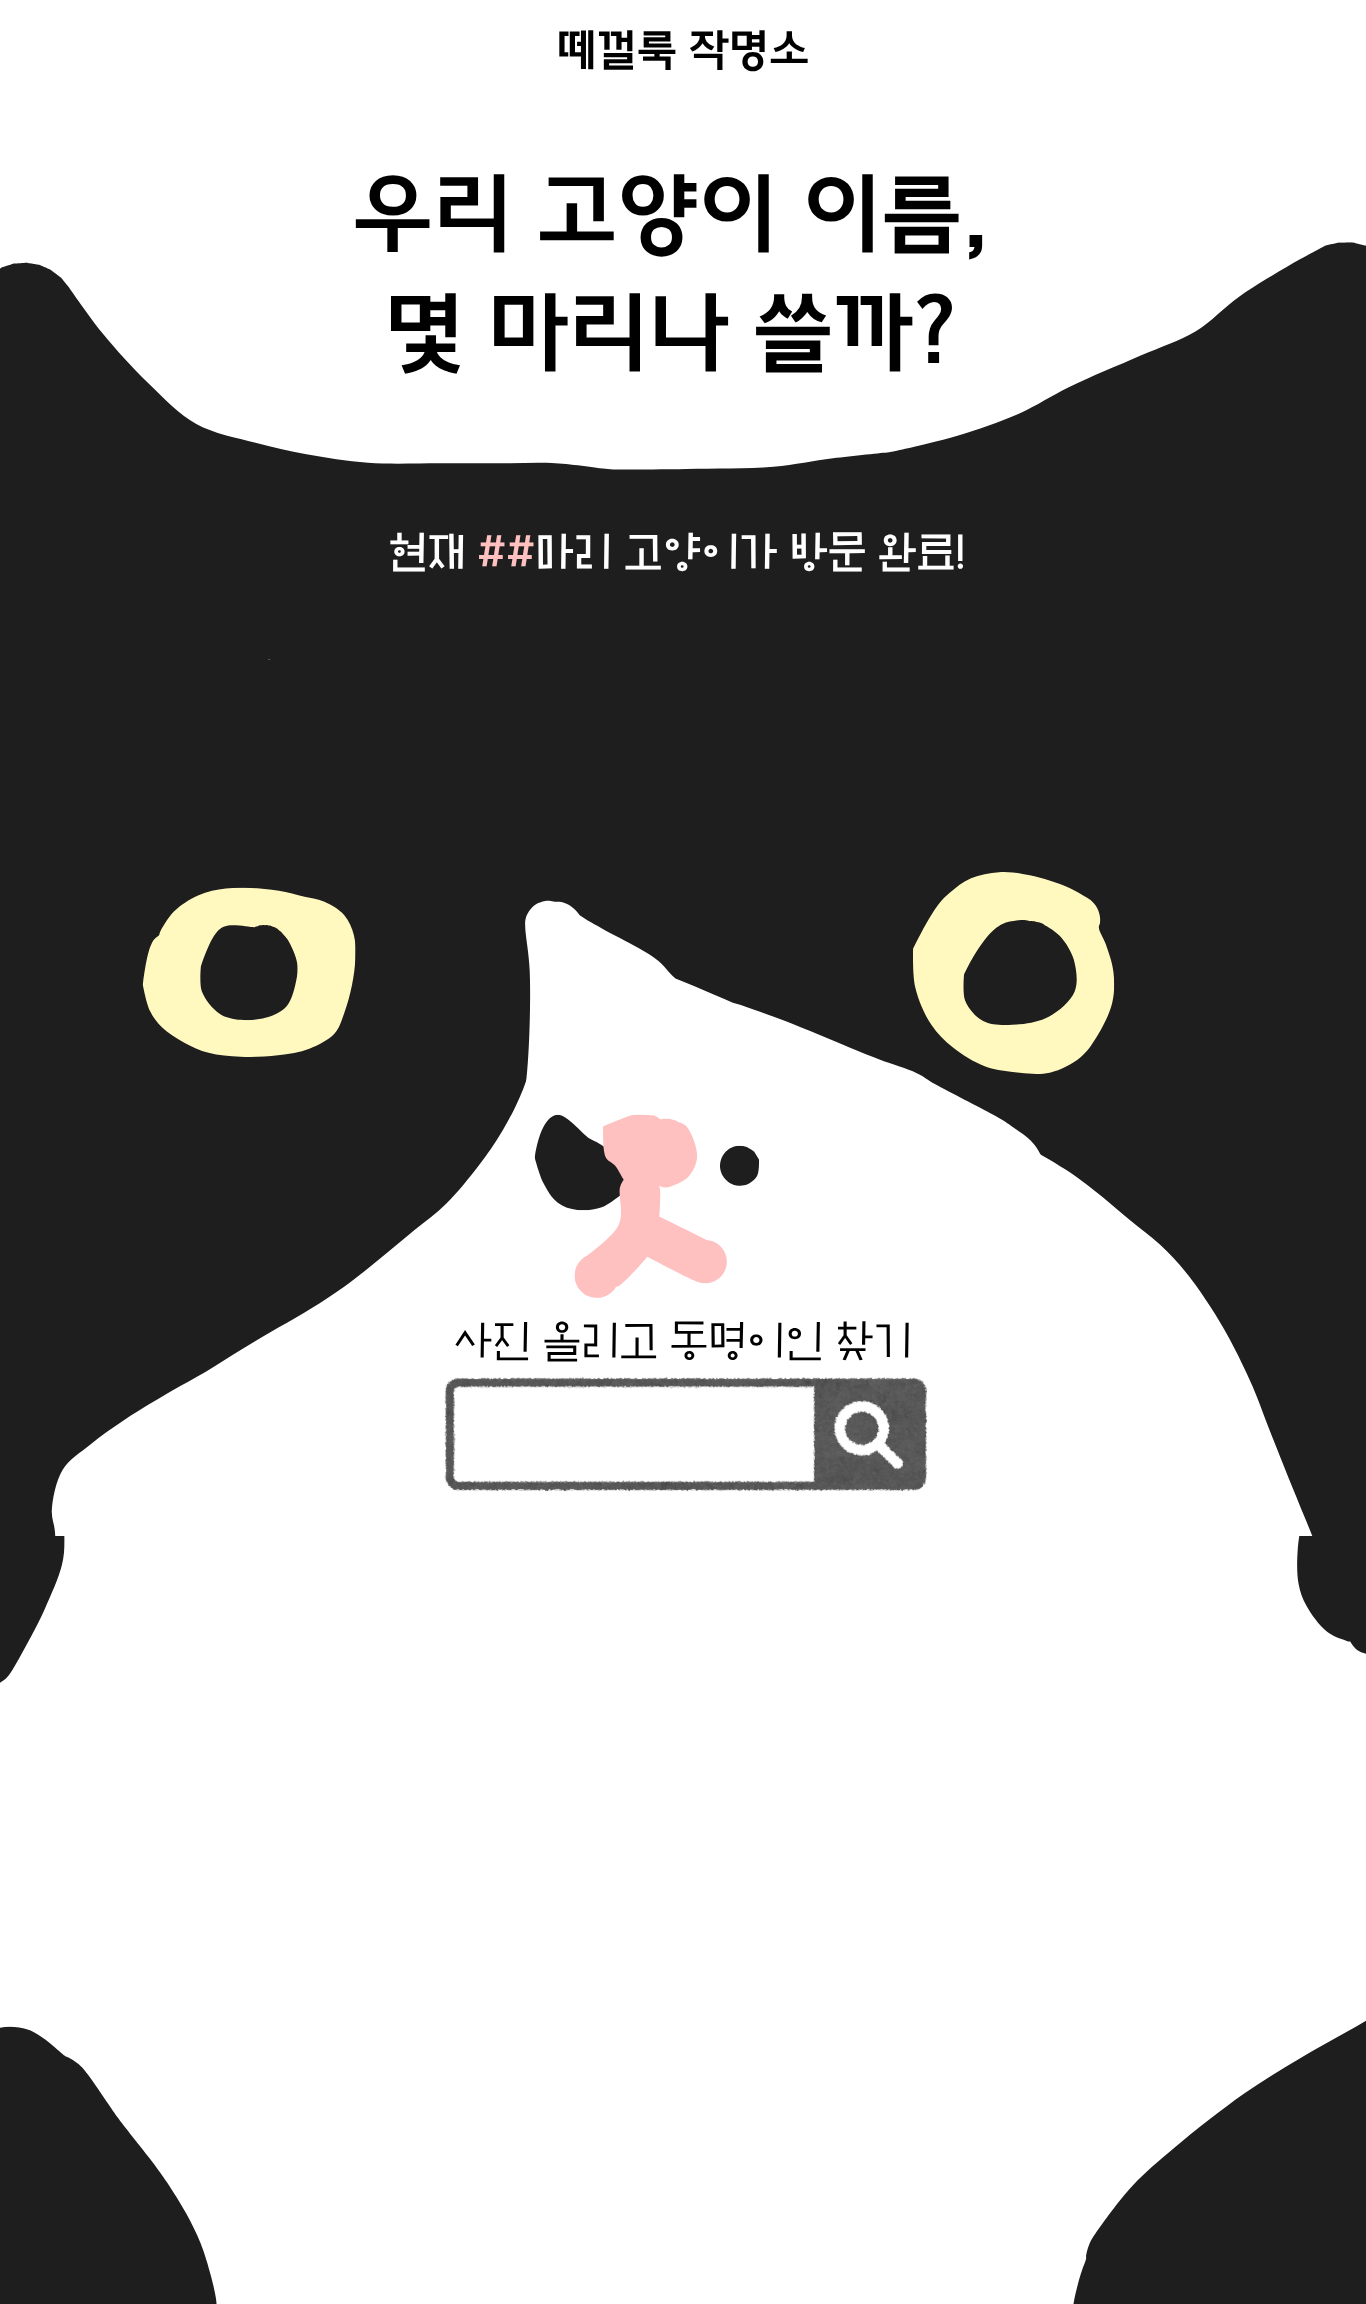
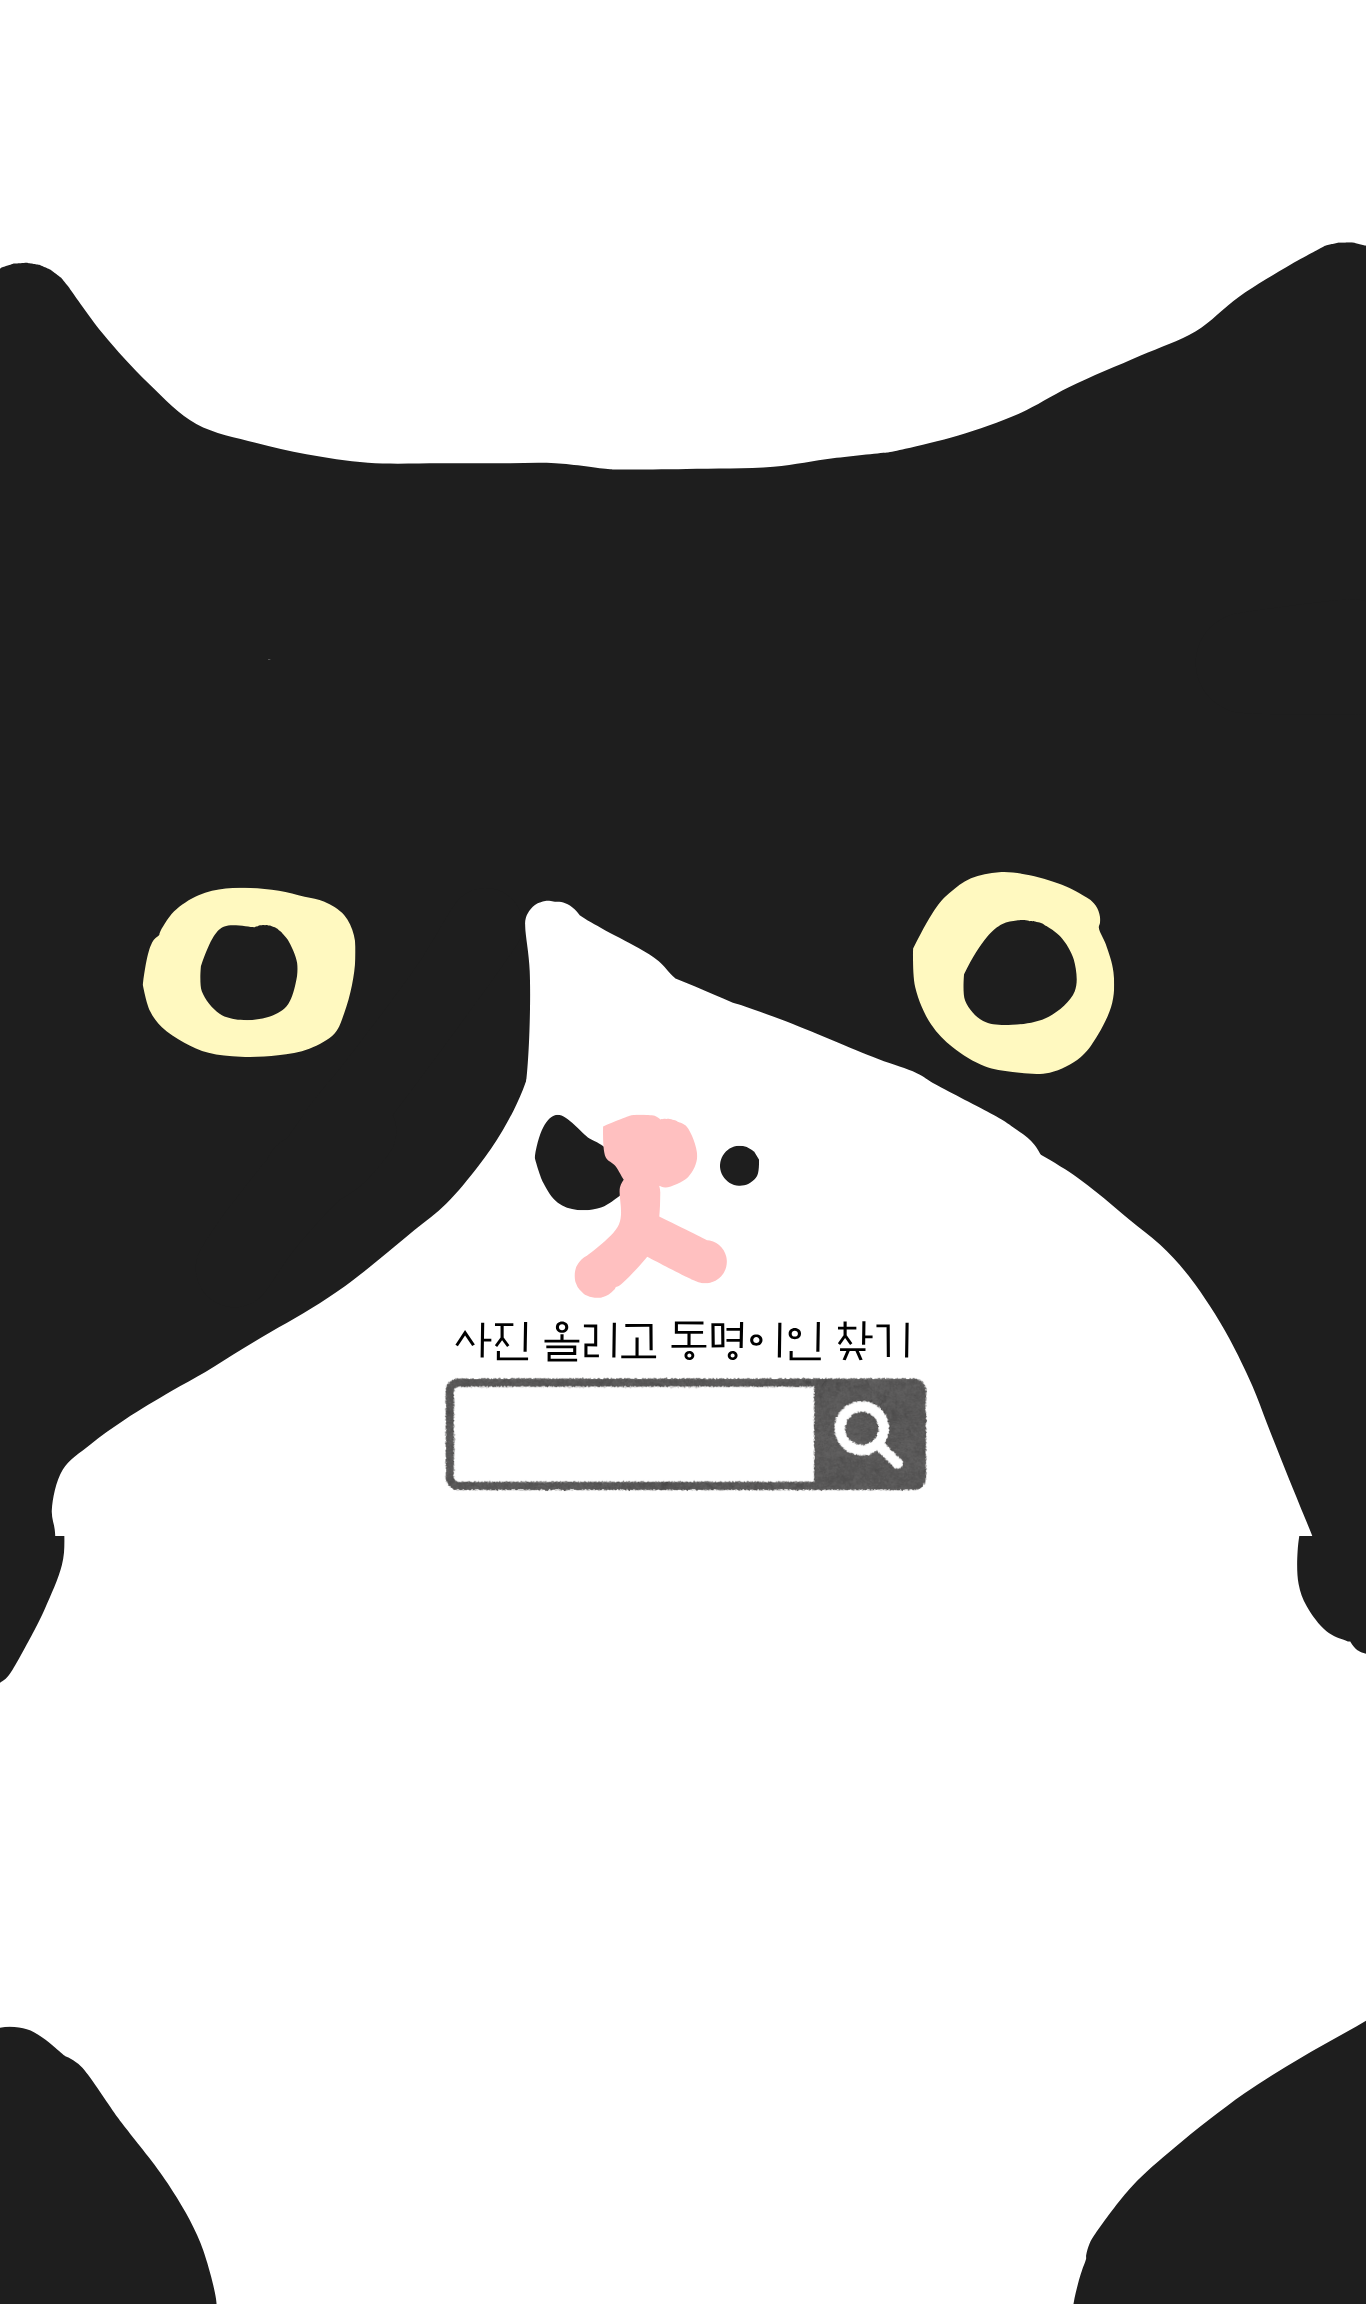
Use new text-free cat image, inline expand for name recommendations
- Replace cat-face.png with new version (no baked-in title text)
- Hero overlay now white gradient (matching new image background)
- Clicking recommended name opens inline panel below showing
  registered cats with that name as circular photos in a row
- Panel shows "아직 친구가 없어요" if no cats registered yet

diff --git a/index.html b/index.html
@@ -33,20 +33,19 @@
 
         /* ========== HERO: FULL-SCREEN TUXEDO CAT FACE ========== */
         .hero {
-            background: var(--black);
-            color: var(--white);
+            background: var(--white);
+            color: var(--black);
             position: relative;
             overflow: hidden;
         }
 
-        /* Cat face image - only show the cat part, not baked-in text */
         .cat-face-img {
             width: 100%;
             height: auto;
             display: block;
         }
 
-        /* Black overlay covers baked-in text on the image */
+        /* White overlay covers baked-in text on the image */
         .hero-text-overlay {
             position: absolute;
             top: 0;
@@ -55,15 +54,14 @@
             z-index: 10;
             text-align: center;
             padding-top: 3%;
-            /* Solid black to cover image text, fades into the cat face */
-            background: linear-gradient(to bottom, var(--black) 85%, transparent 100%);
-            padding-bottom: 5%;
+            background: linear-gradient(to bottom, var(--white) 80%, transparent 100%);
+            padding-bottom: 8%;
         }
 
         .hero-logo {
             font-family: 'Jua', sans-serif;
             font-size: 18px;
-            color: var(--white);
+            color: var(--black);
             letter-spacing: 2px;
             margin-bottom: 2%;
         }
@@ -73,7 +71,7 @@
             line-height: 1.3;
             text-align: center;
             margin-bottom: 2%;
-            color: var(--white);
+            color: var(--black);
         }
 
         .live-counter {
@@ -81,8 +79,9 @@
             color: var(--gray-dark);
         }
         .live-counter .count-num {
-            color: var(--eye-yellow);
+            color: var(--black);
             font-size: clamp(15px, 3.5vw, 20px);
+            font-weight: bold;
         }
 
         /* Content on white chin area */
@@ -488,6 +487,49 @@
         .name-list-arrow {
             color: var(--gray-mid);
             font-size: 16px;
+        }
+
+        /* Inline expand panel under a name */
+        .name-expand {
+            display: none;
+            padding: 12px 16px;
+            background: var(--gray-light);
+            border-bottom: 1px solid var(--gray-mid);
+        }
+        .name-expand.open { display: block; animation: fadeUp 0.2s ease; }
+        .name-expand-title {
+            font-family: 'Jua', sans-serif;
+            font-size: 14px;
+            margin-bottom: 8px;
+            color: var(--gray-dark);
+        }
+        .name-expand-grid {
+            display: flex;
+            gap: 10px;
+            overflow-x: auto;
+            padding-bottom: 4px;
+        }
+        .name-expand-grid::-webkit-scrollbar { height: 3px; }
+        .name-expand-grid::-webkit-scrollbar-thumb { background: var(--gray-mid); border-radius: 2px; }
+        .name-expand-item {
+            flex-shrink: 0;
+            text-align: center;
+        }
+        .name-expand-item img {
+            width: 64px; height: 64px;
+            border-radius: 50%;
+            object-fit: cover;
+            border: 2px solid var(--black);
+        }
+        .name-expand-item .expand-name {
+            font-size: 11px;
+            color: var(--gray-dark);
+            margin-top: 3px;
+        }
+        .name-expand-empty {
+            font-size: 13px;
+            color: var(--gray-dark);
+            padding: 8px 0;
         }
 
         .suggest-form {
@@ -1063,32 +1105,52 @@ function renderRecommendations() {
     const filtered = currentCategory === 'all' ? all : all.filter(n => n.category === currentCategory);
     const cats = getCats();
 
-    document.getElementById('recommendTags').innerHTML = filtered.map(n => {
-        const count = cats.filter(c => c.name === n.name).length;
+    document.getElementById('recommendTags').innerHTML = filtered.map((n, i) => {
+        const matching = cats.filter(c => c.name === n.name);
+        const count = matching.length;
+        const id = `expand-${currentCategory}-${i}`;
         const countLabel = count > 0 ? `${count}마리` : '';
+
+        let expandContent;
+        if (count > 0) {
+            expandContent = `
+                <div class="name-expand-title">"${n.name}" 친구들</div>
+                <div class="name-expand-grid">
+                    ${matching.map(c => `
+                        <div class="name-expand-item">
+                            <img src="${c.image}" alt="${c.name}" loading="lazy">
+                            <div class="expand-name">${c.date}</div>
+                        </div>
+                    `).join('')}
+                </div>`;
+        } else {
+            expandContent = `<div class="name-expand-empty">아직 "${n.name}" 이름의 친구가 없어요</div>`;
+        }
+
         return `
-            <li class="name-list-item" onclick="selectRecommendation('${n.name}','${n.meaning.replace(/'/g, "\\'")}')">
+            <li class="name-list-item" onclick="toggleExpand('${id}')">
                 <span class="name-list-name">${n.name}</span>
                 <span class="name-list-meaning">${n.meaning}</span>
                 ${countLabel ? `<span class="name-list-count">${countLabel}</span>` : ''}
                 <span class="name-list-arrow">›</span>
             </li>
+            <li class="name-expand" id="${id}">${expandContent}</li>
         `;
     }).join('');
+}
+
+function toggleExpand(id) {
+    const el = document.getElementById(id);
+    const wasOpen = el.classList.contains('open');
+    // Close all others
+    document.querySelectorAll('.name-expand.open').forEach(e => e.classList.remove('open'));
+    if (!wasOpen) el.classList.add('open');
 }
 
 function selectRecommendation(name, meaning) {
     document.getElementById('randomResult').textContent = name;
     document.getElementById('randomMeaning').textContent = meaning;
     document.getElementById('searchInput').value = name;
-
-    // If registered cats exist with this name, show them
-    const cats = getCats();
-    const matching = cats.filter(c => c.name === name);
-    if (matching.length > 0 && myCat) {
-        searchName();
-        document.querySelector('main').scrollIntoView({ behavior: 'smooth' });
-    }
 }
 
 function randomName() {
